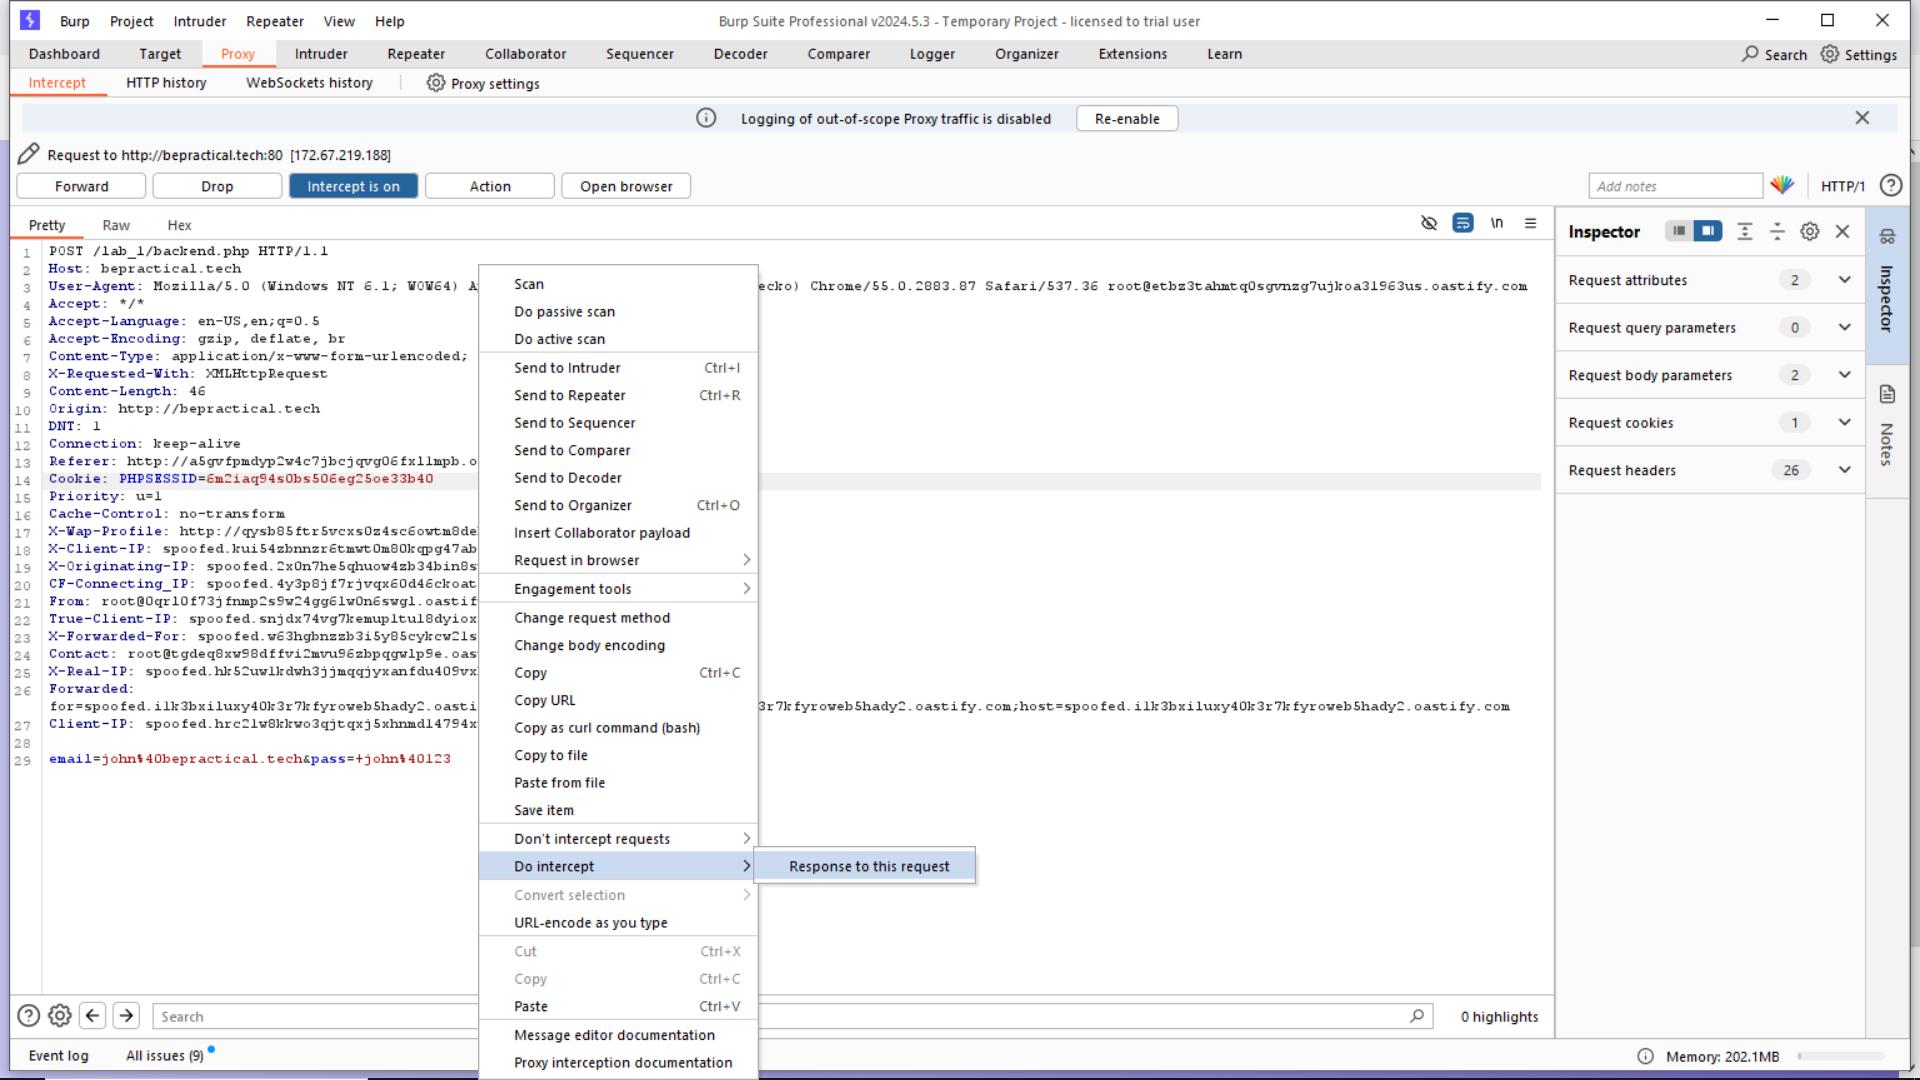
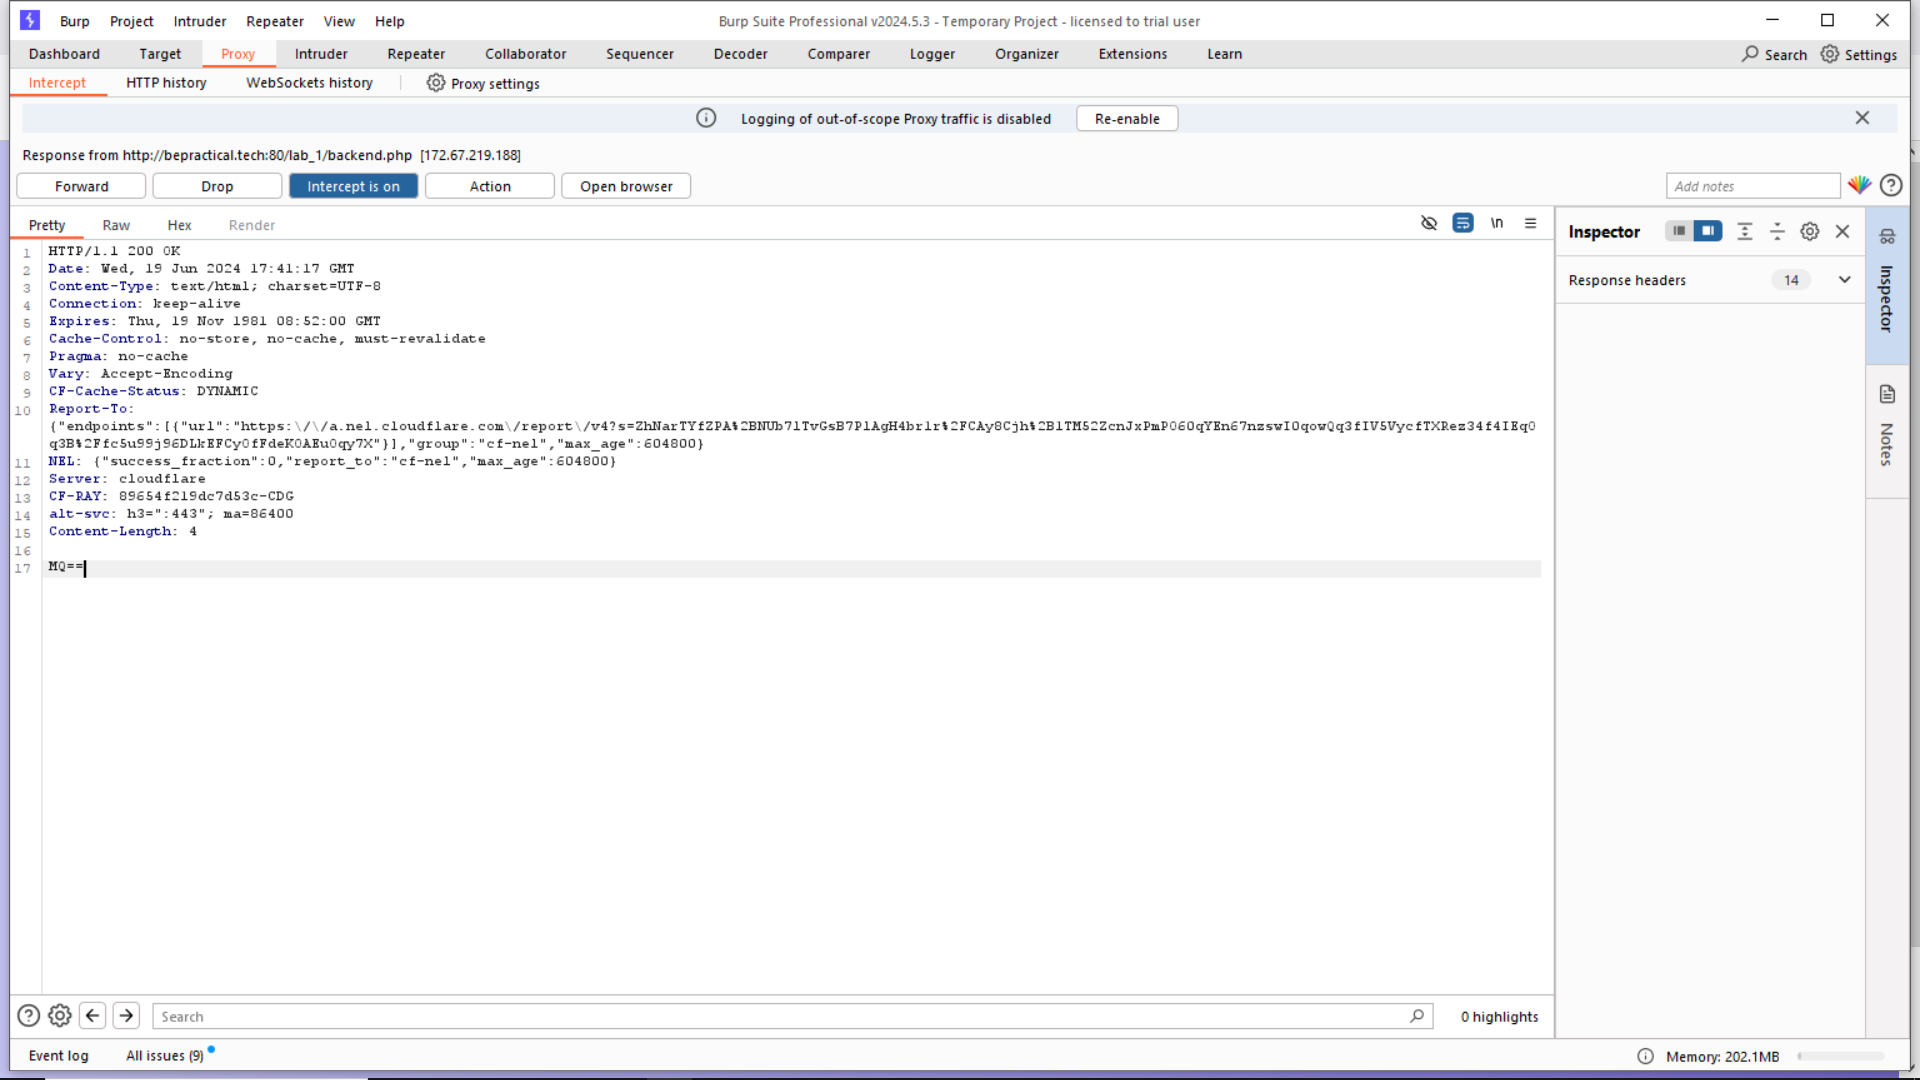
ok

diff --git a/_pages/Labs/BePractical/Lab1.md b/_pages/Labs/BePractical/Lab1.md
@@ -9,4 +9,36 @@ bookmark: true
 ---
 # Description
 ---
-bepractical.tech. It's a platform that offers various challenges and labs for cybersecurity enthusiasts and bug hunters to practice their skills
+bepractical.tech. It's a platform that offers various challenges and labs for cybersecurity enthusiasts and bug hunters to practice their skills. The site provides hands-on experience with real-world scenarios, allowing users to test and improve their abilities in finding and exploiting vulnerabilities.
+---
+# Login
+
+First we will login with the credentials given 
+`john@bepractical.tech:john@123`
+
+<img src="/assets/img/bepractical/lab1/1.png" alt="login">
+
+<img src="/assets/img/bepractical/lab1/2.png" alt="login2">
+
+As you can see, we were logged in as John.
+
+Now, let's go back to the login page, intercept the same request with BurpSuite, and send it to the Repeater.
+
+<img src="/assets/img/bepractical/lab1/3.png" alt="burp">
+
+When we logged in with the given credentials, the response was `MQ==`, which is Base64 for `1`.
+
+If we change the email parameter to `admin@bepractical.tech`, the response will be `ZmFsc2U=`, which means `false`.
+
+<img src="/assets/img/bepractical/lab1/4.png" alt="burp2">
+
+Immediately, I thought about `response manipulation`.
+
+So, I went back and intercepted the request. I changed the email to `admin@bepractical.tech`, right-clicked, selected Do intercept, chose response to this request, and then forwarded it. After that, I changed `ZmFsc2U=` to `MQ==` and forwarded the request again 
+
+<img src="/assets/img/bepractical/lab1/5.png" alt="burp3">
+
+Now, turn intercept off, then go back to Firefox.
+<img src="/assets/img/bepractical/lab1/admin.png" alt="admin">
+
+GG lab is solved 

diff --git a/_pages/Machines/Bounty_hacker.md b/_pages/Machines/Bounty_hacker.md
@@ -13,9 +13,6 @@ bookmark: true
 
 <img src="/assets/img/thumbnail/bounty_hacker.jpeg" alt="Bounty Hacker">
 
----
-
-# Bounty Hacker Write-up
 
 Hello guys, today we’ll talk about one of the TryHackMe rooms called “Bounty Hacker”. It’s a quite easy room in which you’ll learn about:
 
@@ -24,6 +21,7 @@ Hello guys, today we’ll talk about one of the TryHackMe rooms called “Bounty
 - How you can do privilege escalation with the help of the tar command.
 
 So, let’s get into it.
+---
 
 ## Recon
 
